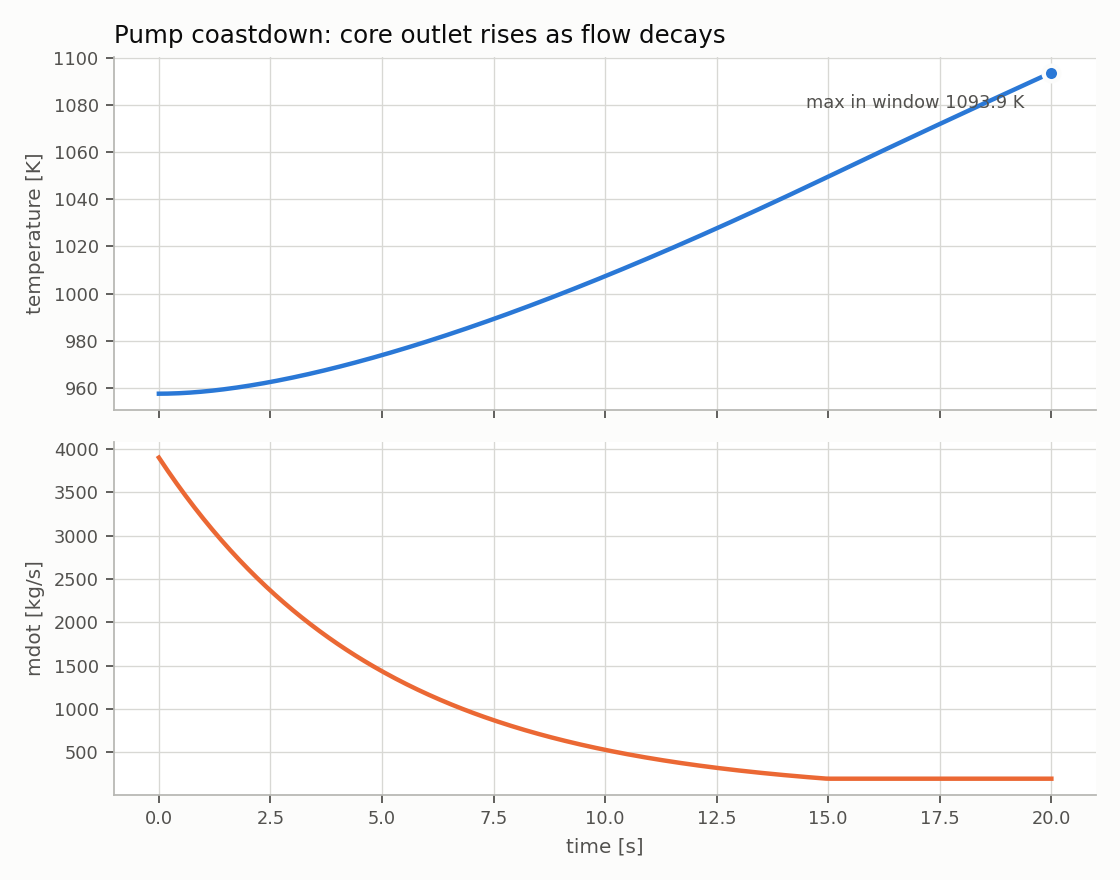
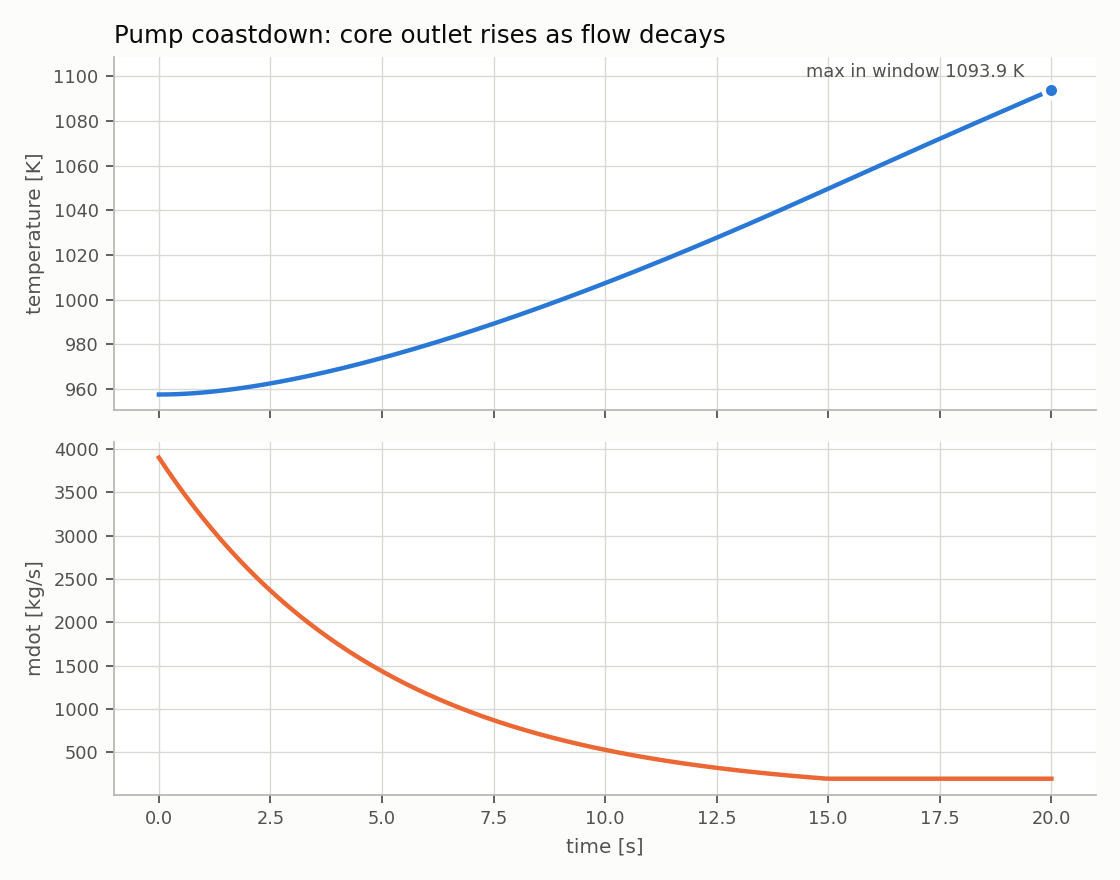
Clean up overlapping labels in summary figures

diff --git a/runs/run_transient_scenarios.py b/runs/run_transient_scenarios.py
@@ -119,8 +119,9 @@ def scenario_coastdown():
              markeredgecolor="#fcfcfb", markeredgewidth=2)
     # still climbing at t_final: this is the maximum in the window, not a turning point
     ax1.annotate(f"max in window {peak:.1f} K", xy=(t_peak, peak),
-                 xytext=(-12, -16), textcoords="offset points", ha="right",
+                 xytext=(-12, 4), textcoords="offset points", ha="right", va="bottom",
                  fontsize=8, color="#52514e")
+    ax1.set_ylim(top=peak + 15)
     style(ax1, "Pump coastdown: core outlet rises as flow decays", xlabel="")
     ax2.plot(t, mdot, color=SERIES[1], lw=2)
     style(ax2, "", ylabel="mdot [kg/s]")

diff --git a/runs/run_steady_sweeps.py b/runs/run_steady_sweeps.py
@@ -97,7 +97,7 @@ def reheat_pressure_sweep():
     ax.set_ylim(top=max(etas.max(), regen) + 0.004)
     style(ax, "Reheat pressure optimum, 8 MPa / 500 C / 10 kPa",
           "reheat pressure [MPa]", "thermal efficiency")
-    ax.legend(frameon=False, fontsize=9, loc="lower center")
+    ax.legend(frameon=False, fontsize=8.5, loc="upper center", bbox_to_anchor=(0.5, -0.16), ncol=3)
     fig.tight_layout()
     fig.savefig(OUT / "sweep_reheat_pressure.png", dpi=160, facecolor="#fcfcfb")
     plt.close(fig)
